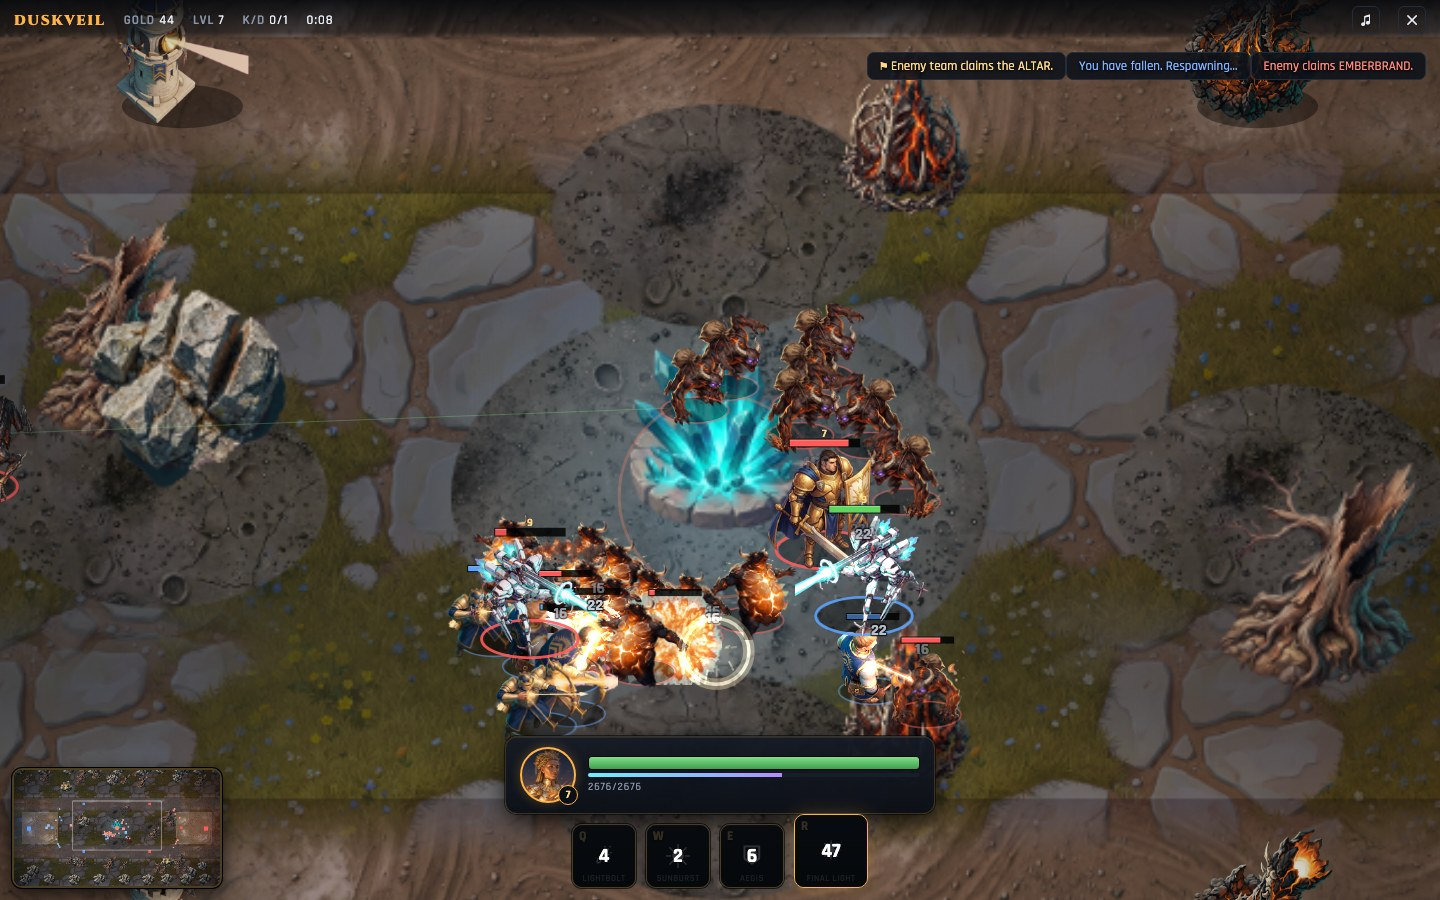
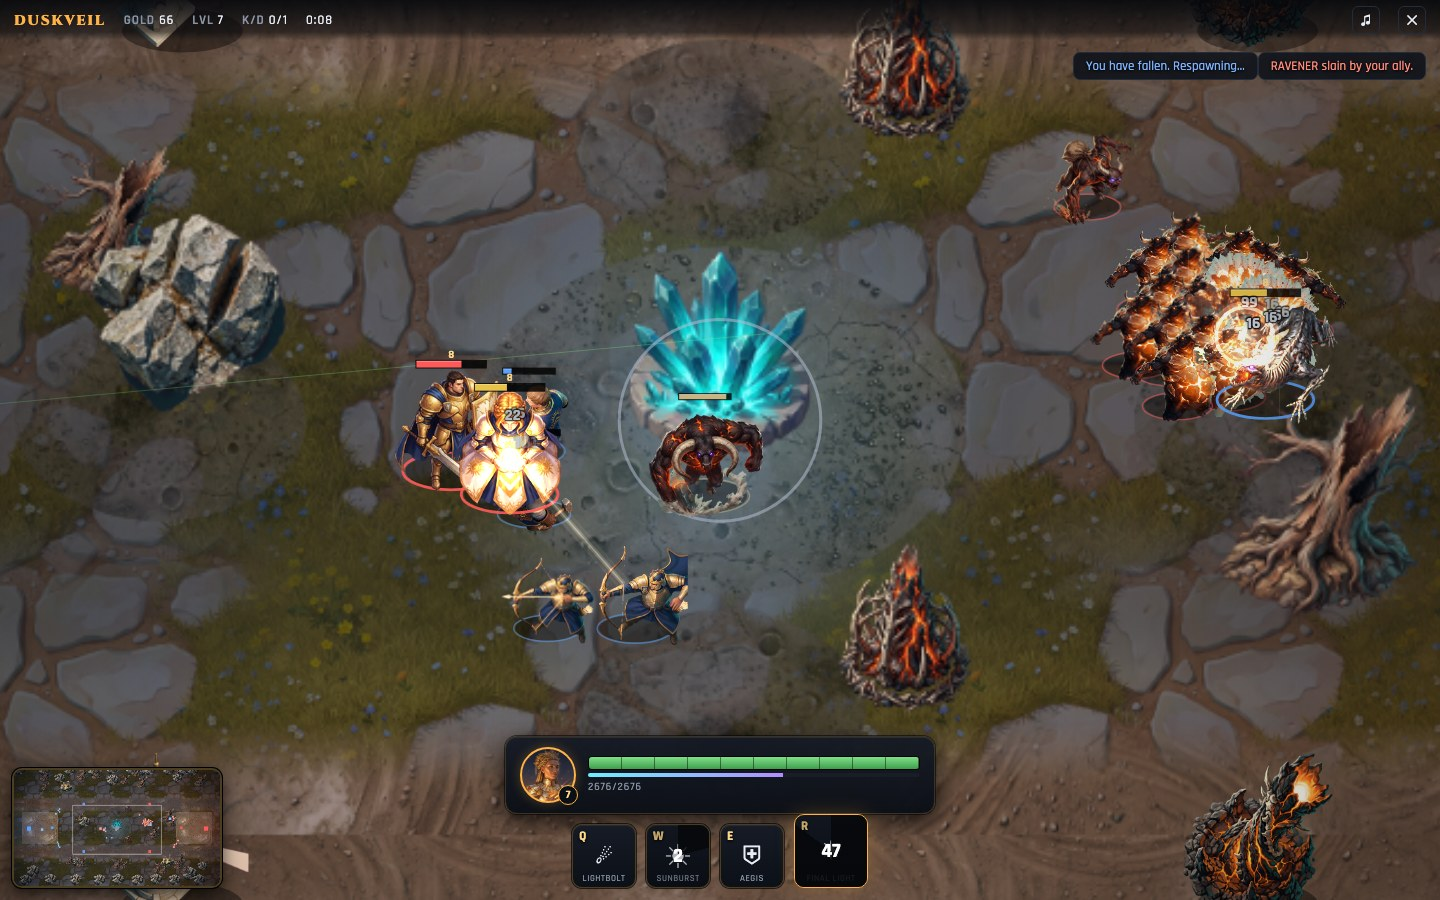
GFX R3: feathered lane seams, varied craters, unit scale/mirror variety, fx spin/size jitter + 4-edge cell feather, painterly demo comp, radial cooldowns, HP ticks, feed dedupe, death-state HUD

diff --git a/moba.js b/moba.js
@@ -112,6 +112,21 @@ function feathered(sheet, key) {
     const rg = g.createRadialGradient(cxm, cym, r * 0.62, cxm, cym, r * 0.96);
     rg.addColorStop(0, 'rgba(0,0,0,1)'); rg.addColorStop(1, 'rgba(0,0,0,0)');
     g.fillStyle = rg; g.fillRect(i * sheet.fw, 0, sheet.fw, sheet.fh);
+    // wide cells: the radial misses the horizontal edges — feather all four sides too
+    const m = Math.round(sheet.fw * 0.10);
+    let eg = g.createLinearGradient(i * sheet.fw, 0, i * sheet.fw + m, 0);
+    eg.addColorStop(0, 'rgba(0,0,0,0)'); eg.addColorStop(1, 'rgba(0,0,0,1)');
+    g.fillStyle = eg; g.fillRect(i * sheet.fw, 0, m, sheet.fh);
+    eg = g.createLinearGradient((i + 1) * sheet.fw, 0, (i + 1) * sheet.fw - m, 0);
+    eg.addColorStop(0, 'rgba(0,0,0,0)'); eg.addColorStop(1, 'rgba(0,0,0,1)');
+    g.fillStyle = eg; g.fillRect((i + 1) * sheet.fw - m, 0, m, sheet.fh);
+    const mv = Math.round(sheet.fh * 0.10);
+    eg = g.createLinearGradient(0, 0, 0, mv);
+    eg.addColorStop(0, 'rgba(0,0,0,0)'); eg.addColorStop(1, 'rgba(0,0,0,1)');
+    g.fillStyle = eg; g.fillRect(i * sheet.fw, 0, sheet.fw, mv);
+    eg = g.createLinearGradient(0, sheet.fh, 0, sheet.fh - mv);
+    eg.addColorStop(0, 'rgba(0,0,0,0)'); eg.addColorStop(1, 'rgba(0,0,0,1)');
+    g.fillStyle = eg; g.fillRect(i * sheet.fw, sheet.fh - mv, sheet.fw, mv);
   }
   FEATHERED[key] = c;
   return c;
@@ -190,6 +205,7 @@ function mkUnit(team, key, x, y, stats, kind) {
     id: eid++, team, key, kind: kind || 'minion', x, y, face: team === 0 ? 0 : Math.PI,
     hp: stats.hp, maxHp: stats.hp, dmg: stats.dmg, range: stats.range, speed: stats.speed,
     r: stats.r, cd: stats.cd, cdT: 0, dead: false, atkT: -9, hitT: -9,
+    vScale: 0.9 + Math.random() * 0.22, vMirror: Math.random() < 0.5,
     order: null, target: null, sh: 0, shT: 0, haste: 1, hasteT: 0,
     kbx: 0, kby: 0, kbT: -9, camp: null, vPhase: Math.random(),
   };
@@ -389,6 +405,7 @@ function sparks(x, y, ang, rgb, mag) {
 const sheetFxList = [];
 function sheetFx(key, o) {
   const s = FX[key]; if (!s) return;
+  if (!o.travel) { o.size = (o.size || 60) * (0.8 + Math.random() * 0.5); o.spin = (Math.random() - .5) * 1.4; }
   sheetFxList.push({ key, s, t0: time, dur: o.dur || s.n / s.fps, ...o });
   if (sheetFxList.length > 80) sheetFxList.shift();
 }
@@ -845,7 +862,11 @@ function paintBar() {
     if (player.level < need) { cdel.classList.remove('hidden'); cdel.textContent = 'L' + need; }
     else {
       const left = player.abCd[i] - time;
-      if (left > 0) { cdel.classList.remove('hidden'); cdel.textContent = Math.ceil(left); }
+      if (left > 0) {
+        cdel.classList.remove('hidden'); cdel.textContent = Math.ceil(left);
+        const pct = Math.max(0, Math.min(100, left / ab.cd * 100));
+        cdel.style.background = 'conic-gradient(rgba(5,7,10,.88) ' + pct + '%, rgba(5,7,10,.25) ' + pct + '%)';
+      }
       else {
         cdel.classList.add('hidden');
         if (ab.ult) el.classList.add('ready-ult');
@@ -858,13 +879,15 @@ function paintBar() {
 /* ============================ feed / hud ============================ */
 function feed(t) {
   const f = $('feed');
+  if (feed._last === t && time - (feed._lastAt || 0) < 3) return;
+  feed._last = t; feed._lastAt = time;
   const d = document.createElement('div');
   d.textContent = t;
   if (/Your ally|You /.test(t)) d.className = 't0';
   else if (/Enemy|slain by your ally/.test(t)) d.className = 't1';
   if (/gold|ALTAR/.test(t)) d.className += ' gold';
   f.appendChild(d);
-  while (f.children.length > 4) f.removeChild(f.firstChild);
+  while (f.children.length > 3) f.removeChild(f.firstChild);
   setTimeout(() => { if (d.parentNode) d.parentNode.removeChild(d); }, 6000);
 }
 function paintHud() {
@@ -875,10 +898,11 @@ function paintHud() {
   $('tKD').textContent = kills + '/' + deaths;
   const m = Math.floor(time / 60), s = Math.floor(time % 60);
   $('tClock').textContent = m + ':' + (s < 10 ? '0' : '') + s;
-  $('hpin').style.width = clamp(player.hp / player.maxHp * 100, 0, 100) + '%';
+  $('hpin').style.width = player.dead ? '0%' : clamp(player.hp / player.maxHp * 100, 0, 100) + '%';
+  $('portrait').style.filter = player.dead ? 'grayscale(1) brightness(0.6)' : '';
   $('hpin').style.background = player.hp / player.maxHp > .5 ? 'linear-gradient(180deg,#7fe08a,#3f9e4c)'
     : player.hp / player.maxHp > .25 ? 'linear-gradient(180deg,#ffd98a,#c99022)' : 'linear-gradient(180deg,#ff8a7a,#b23428)';
-  $('lbHp').textContent = Math.max(0, Math.round(player.hp)) + '/' + player.maxHp + (player.sh > 0 ? ' (+' + Math.round(player.sh) + ')' : '');
+  $('lbHp').textContent = (player.dead ? 0 : Math.max(0, Math.round(player.hp))) + '/' + player.maxHp + (player.sh > 0 ? ' (+' + Math.round(player.sh) + ')' : '');
   $('lbBuff').textContent = (player.buff ? player.buff + ' ' : '') + (player.recallT ? 'RECALLING ' + Math.ceil(player.recallT - time) : '');
   $('xpin').style.width = (player.level >= 9 ? 100 : player.xp / xpNeed(player.level) * 100) + '%';
   paintBar();
@@ -939,8 +963,10 @@ function buildGround() {
     bg.fillStyle = fg; bg.fillRect(0, 0, WORLD.w, 240);
     g.drawImage(band, 0, 0, band.width, band.height, 0, y - 120, WORLD.w, 240);
     g.globalCompositeOperation = 'multiply';
-    g.fillStyle = 'rgba(190,180,190,0.9)';
-    g.fillRect(0, y - 120, WORLD.w, 240);
+    const lg2 = g.createLinearGradient(0, y - 150, 0, y + 150);
+    lg2.addColorStop(0, 'rgba(255,255,255,1)'); lg2.addColorStop(0.3, 'rgba(190,180,190,0.9)');
+    lg2.addColorStop(0.7, 'rgba(190,180,190,0.9)'); lg2.addColorStop(1, 'rgba(255,255,255,1)');
+    g.fillStyle = lg2; g.fillRect(0, y - 150, WORLD.w, 300);
     g.globalCompositeOperation = 'source-over';
   };
   for (const y of LANES) lane(y);
@@ -950,14 +976,14 @@ function buildGround() {
       g.drawImage(TILES.dirt, x, y, Math.min(T, bx + 520 - x), Math.min(T, MID_Y + 240 - y));
   }
   // 4. altar: cratered clearing + crystal centerpiece + emissive glow
-  if (TILES.cratered) { g.save(); g.beginPath(); g.ellipse(ALTAR.x, ALTAR.y, 240, 170, 0, 0, TAU); g.clip(); g.drawImage(TILES.cratered, ALTAR.x - 256, ALTAR.y - 256, 512, 512); g.restore(); }
+  if (TILES.cratered) { g.save(); g.beginPath(); g.ellipse(ALTAR.x, ALTAR.y, 220, 155, 0, 0, TAU); g.clip(); g.globalAlpha = 0.7; g.translate(ALTAR.x, ALTAR.y); g.rotate(1.2); g.drawImage(TILES.cratered, -300, -300, 600, 600); g.restore(); g.globalAlpha = 1; }
   const ag = g.createRadialGradient(ALTAR.x, ALTAR.y, 20, ALTAR.x, ALTAR.y, 260);
   ag.addColorStop(0, 'rgba(150,220,255,0.30)'); ag.addColorStop(1, 'rgba(150,220,255,0)');
   g.fillStyle = ag; g.fillRect(ALTAR.x - 260, ALTAR.y - 260, 520, 520);
   if (TILES.crystal_rich) g.drawImage(TILES.crystal_rich, ALTAR.x - 90, ALTAR.y - 150, 180, 180);
   // 5. camp clearings
   for (const c of JUNGLE) {
-    if (TILES.cratered) { g.save(); g.beginPath(); g.ellipse(c.x, c.y, 150, 100, 0, 0, TAU); g.clip(); g.globalAlpha = 0.85; g.drawImage(TILES.cratered, c.x - 256, c.y - 256, 512, 512); g.restore(); g.globalAlpha = 1; }
+    if (TILES.cratered) { g.save(); g.beginPath(); g.ellipse(c.x, c.y, 130, 90, 0, 0, TAU); g.clip(); g.globalAlpha = 0.55; g.translate(c.x, c.y); g.rotate(rnd() * TAU); const cs = 380 + rnd() * 200; g.drawImage(TILES.cratered, -cs / 2, -cs / 2, cs, cs); g.restore(); g.globalAlpha = 1; }
     if (c.big && TILES.bones) g.drawImage(TILES.bones, c.x + 90, c.y - 150, 150, 150);
   }
   // 6. doodads: trees + rocks in the jungle, ruins accents, rock-lined edges
@@ -1002,12 +1028,12 @@ function drawSheet(u, sheet, size, hFlip, alpha) {
   if (hFlip) cx.scale(-1, 1);
   // hit flash pop
   const hitAge = time - u.hitT;
-  const pop = hitAge < 0.13 ? 1 + 0.08 * (1 - hitAge / 0.13) : 1;
+  const pop = hitAge < 0.22 ? 1 + 0.08 * (1 - hitAge / 0.22) : 1;
   cx.scale(pop, pop);
   cx.drawImage(sheet.img, fi * sheet.fw, 0, sheet.fw, sheet.fh, -size / 2, -size / 2, size, size);
-  if (hitAge < 0.13 && hitAge >= 0) {
+  if (hitAge < 0.22 && hitAge >= 0) {
     cx.globalCompositeOperation = 'lighter';
-    cx.globalAlpha = 0.8 * (1 - hitAge / 0.13);
+    cx.globalAlpha = 0.8 * (1 - hitAge / 0.22);
     cx.drawImage(sheet.img, fi * sheet.fw, 0, sheet.fw, sheet.fh, -size / 2, -size / 2, size, size);
   }
   cx.restore();
@@ -1018,8 +1044,9 @@ function drawUnit(u) {
   const anims = ANIMS[u.key]; if (!anims) return;
   const state = (time - u.atkT < 0.4 && anims.attack) ? 'attack' : (u.moving && anims.walk ? 'walk' : 'idle');
   const sheet = anims[state] || anims.idle; if (!sheet) return;
-  const size = u.kind === 'hero' ? 120 : u.kind === 'monster' ? (u.key === 'mawborn_pitbrute' ? 116 : 96) : 84;
-  const hFlip = Math.cos(u.face) < 0;
+  let size = u.kind === 'hero' ? 120 : u.kind === 'monster' ? (u.key === 'mawborn_pitbrute' ? 116 : 96) : 84;
+  if (u.kind !== 'hero') size = Math.round(size * (u.vScale || 1));
+  const hFlip = (Math.cos(u.face) < 0) !== (u.kind !== 'hero' && u.vMirror && !u.moving && time - u.atkT > 0.5);
   // ground: pool shadow + team ellipse
   cx.save();
   cx.translate(sx, sy + size * 0.30 * ZOOM);
@@ -1112,6 +1139,7 @@ function drawFxAll() {
     cx.globalAlpha = 0.9 * clamp(1 - Math.max(0, t - 0.62) / 0.38, 0, 1);
     cx.translate(sx, sy);
     if (e.travel) cx.rotate(Math.atan2(e.y2 - e.y, e.x2 - e.x));
+    else if (e.spin) cx.rotate(e.spin);
     const sz = e.size * ZOOM;
     cx.drawImage(im, fi * e.s.fw, 0, e.s.fw, e.s.fh, -sz / 2, -sz / 2, sz, sz);
     cx.restore();
@@ -1129,7 +1157,7 @@ function drawFxAll() {
     cx.beginPath(); cx.moveTo(x1, y1); cx.lineTo(x2, y2); cx.stroke();
     cx.globalAlpha = a * .6; cx.lineWidth = b.w * .42 * pulse * ZOOM;
     cx.beginPath(); cx.moveTo(x1, y1); cx.lineTo(x2, y2); cx.stroke();
-    cx.globalAlpha = a * .95; cx.strokeStyle = '#fff'; cx.lineWidth = Math.max(1.4, b.w * .12) * ZOOM;
+    cx.globalAlpha = a * .8; cx.strokeStyle = '#fffbe8'; cx.lineWidth = Math.max(1.2, b.w * .1) * ZOOM;
     cx.beginPath(); cx.moveTo(x1, y1); cx.lineTo(x2, y2); cx.stroke();
     for (const [ex, ey, er] of [[x1, y1, b.w * .9 * ZOOM], [x2, y2, b.w * 1.8 * ZOOM]]) {
       const g = cx.createRadialGradient(ex, ey, 0, ex, ey, er);
@@ -1400,14 +1428,15 @@ function startGame(hk) {
   heroes.push(player);
   // two AI allies from the rest of the roster; enemy team of three (roster of
   // four means one mirror match — the lane rival)
-  const rest = all.filter(k => k !== hk).sort(() => Math.random() - .5);
-  const allies = rest.slice(0, 2);
+  let rest = all.filter(k => k !== hk).sort(() => Math.random() - .5);
+  let allies = rest.slice(0, 2);
+  if (DEMOF) allies = ['corwen', 'ravener'];
   allies.forEach((k, i) => {
     const h = mkHero(0, k, 380, MID_Y + 90 + i * 60);
     h.lane = i === 0 ? 1 : 2;                      // ally 1 bot lane, ally 2 jungles
     heroes.push(h);
   });
-  const epool = all.sort(() => Math.random() - .5).slice(0, 3);
+  const epool = DEMOF ? ['ravener', 'corwen', 'liora'] : all.sort(() => Math.random() - .5).slice(0, 3);
   epool.forEach((k, i) => {
     const h = mkHero(1, k, WORLD.w - 380, MID_Y + (i - 1) * 80);
     h.lane = i;                                     // top / bot / jungle
@@ -1428,7 +1457,7 @@ function startGame(hk) {
     for (const team of [0, 1]) {
       for (let i = 0; i < 6; i++) {
         const d = MINIONS[team][i < 4 ? 0 : 1];
-        const u = mkUnit(team, d.key, ALTAR.x + (team === 0 ? -170 : 170) + (Math.random() - .5) * 60, ALTAR.y - 120 + i * 44, d);
+        const u = mkUnit(team, d.key, ALTAR.x + (team === 0 ? -1 : 1) * (150 + Math.random() * 120), ALTAR.y - 150 + i * 52 + (Math.random() - .5) * 40, d);
         u.order = { x: ALTAR.x + (team === 0 ? 60 : -60), y: u.y };
         units.push(u);
       }

diff --git a/index.html b/index.html
@@ -53,7 +53,9 @@
     color:var(--gold2); font-size:11px; font-weight:700; width:20px; height:20px; border-radius:50%;
     display:flex; align-items:center; justify-content:center; }
   #bars { flex:1; }
-  #hpout { height:14px; border:1px solid #000; background:#191d26; border-radius:4px; overflow:hidden; }
+  #hpout { height:14px; border:1px solid #000; background:#191d26; border-radius:4px; overflow:hidden; position:relative; }
+  #hpout::after { content:''; position:absolute; inset:0; pointer-events:none;
+    background:repeating-linear-gradient(90deg, transparent 0 calc(10% - 1px), rgba(0,0,0,.45) calc(10% - 1px) 10%); }
   #hpin { height:100%; width:100%; background:linear-gradient(180deg,#7fe08a,#3f9e4c); transition:width .15s; }
   #xpout { height:4px; background:#191d26; border-radius:3px; margin-top:3px; overflow:hidden; }
   #xpin { height:100%; width:0%; background:linear-gradient(90deg,#6cf0ff,#b18cff); }
